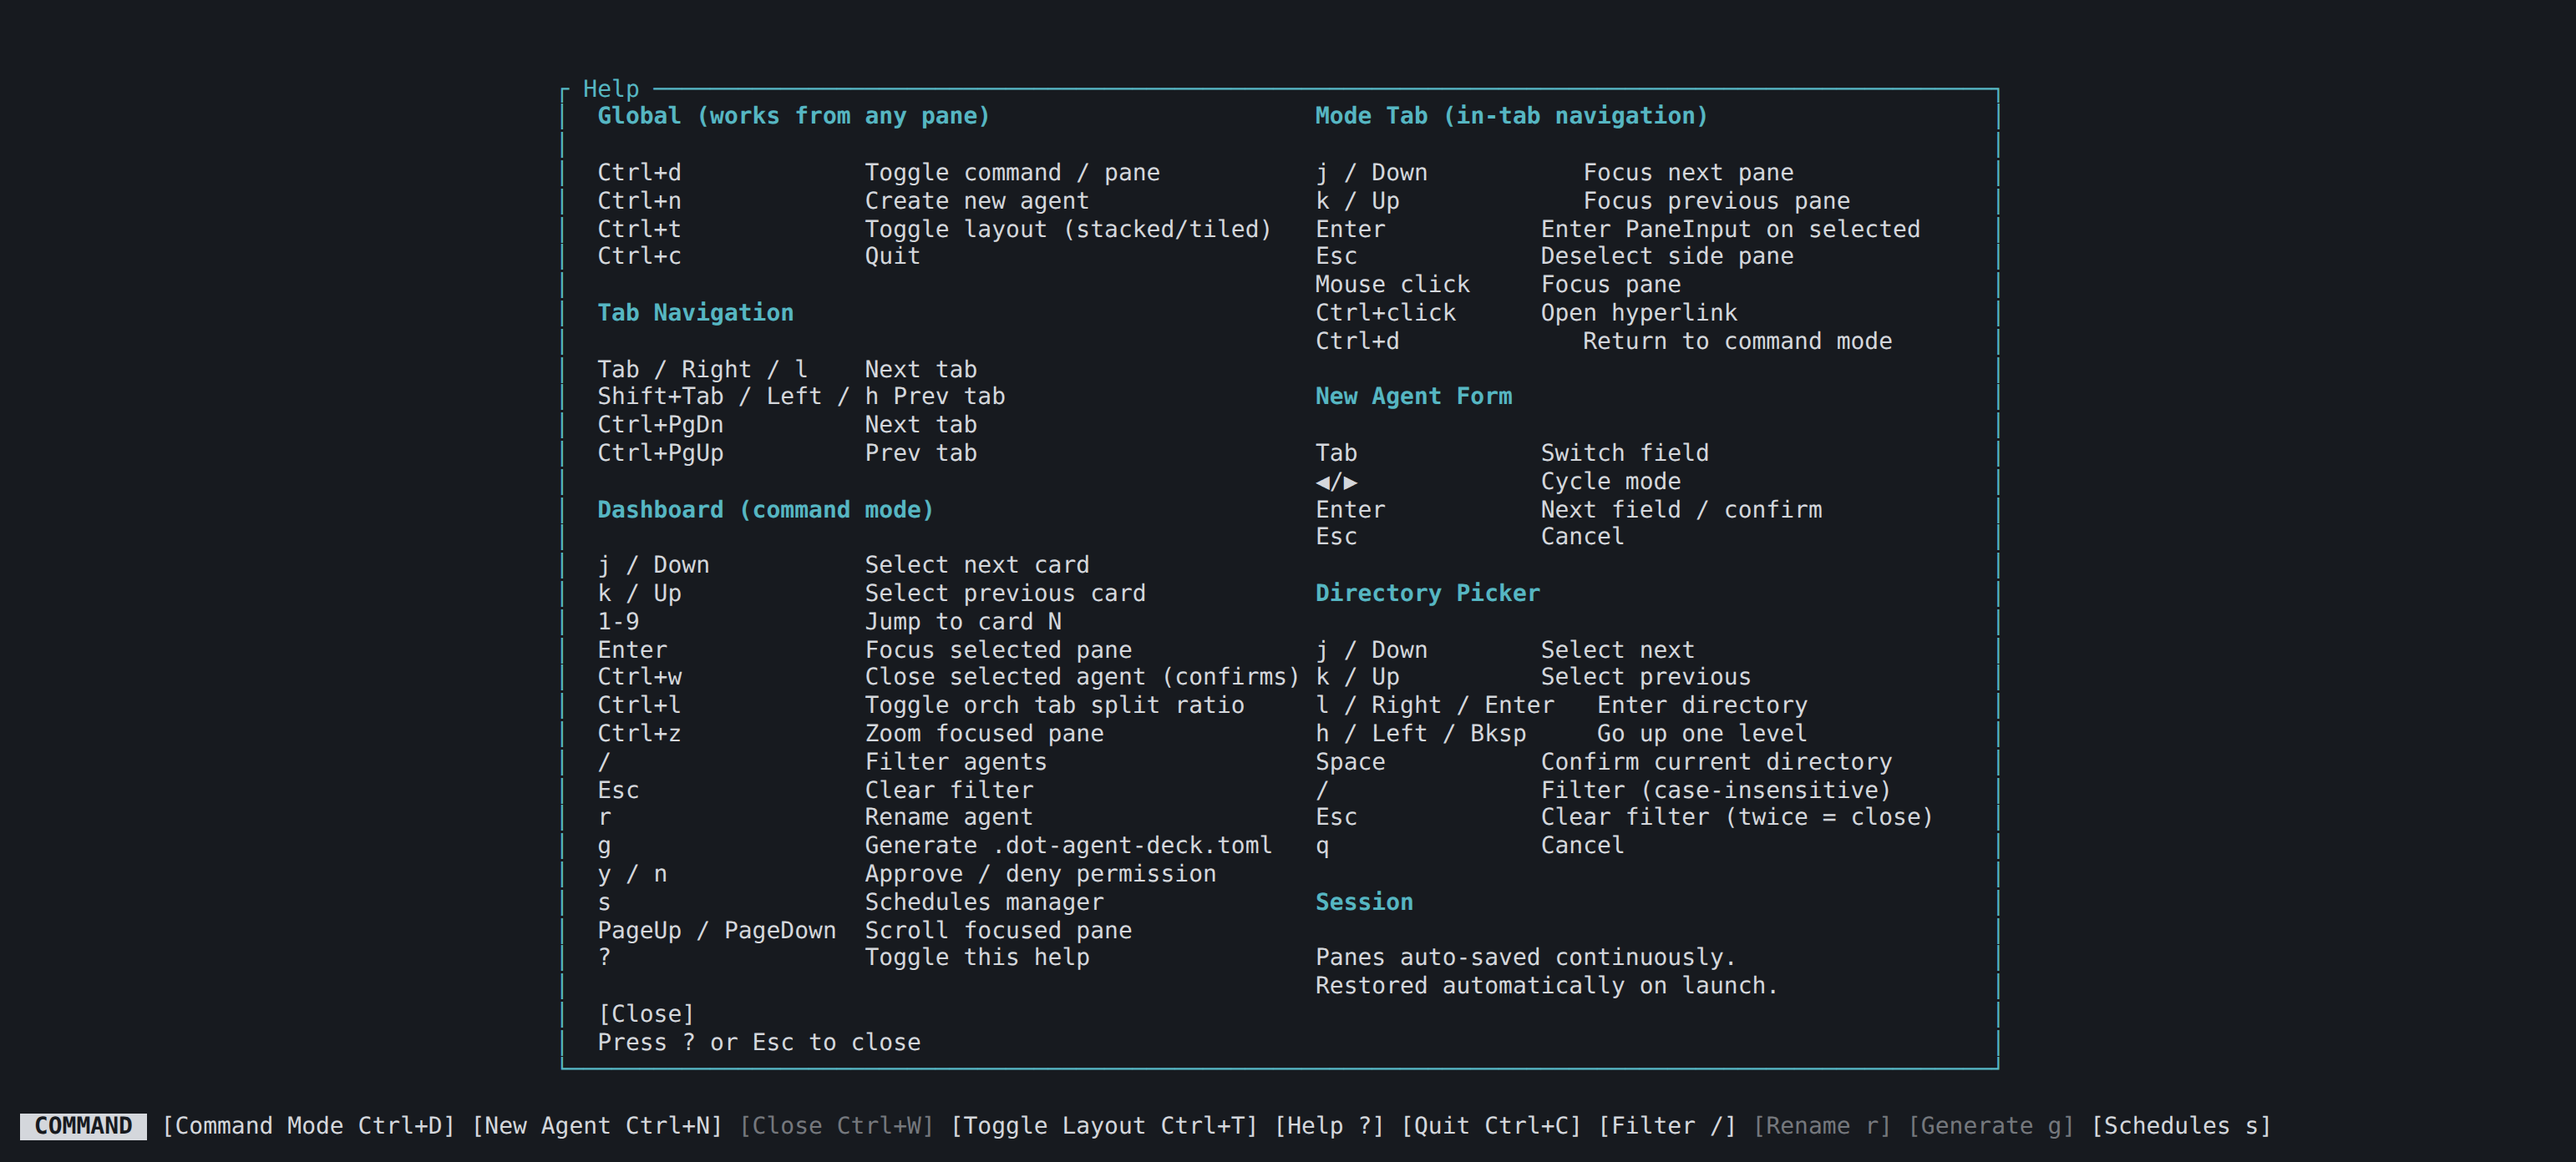
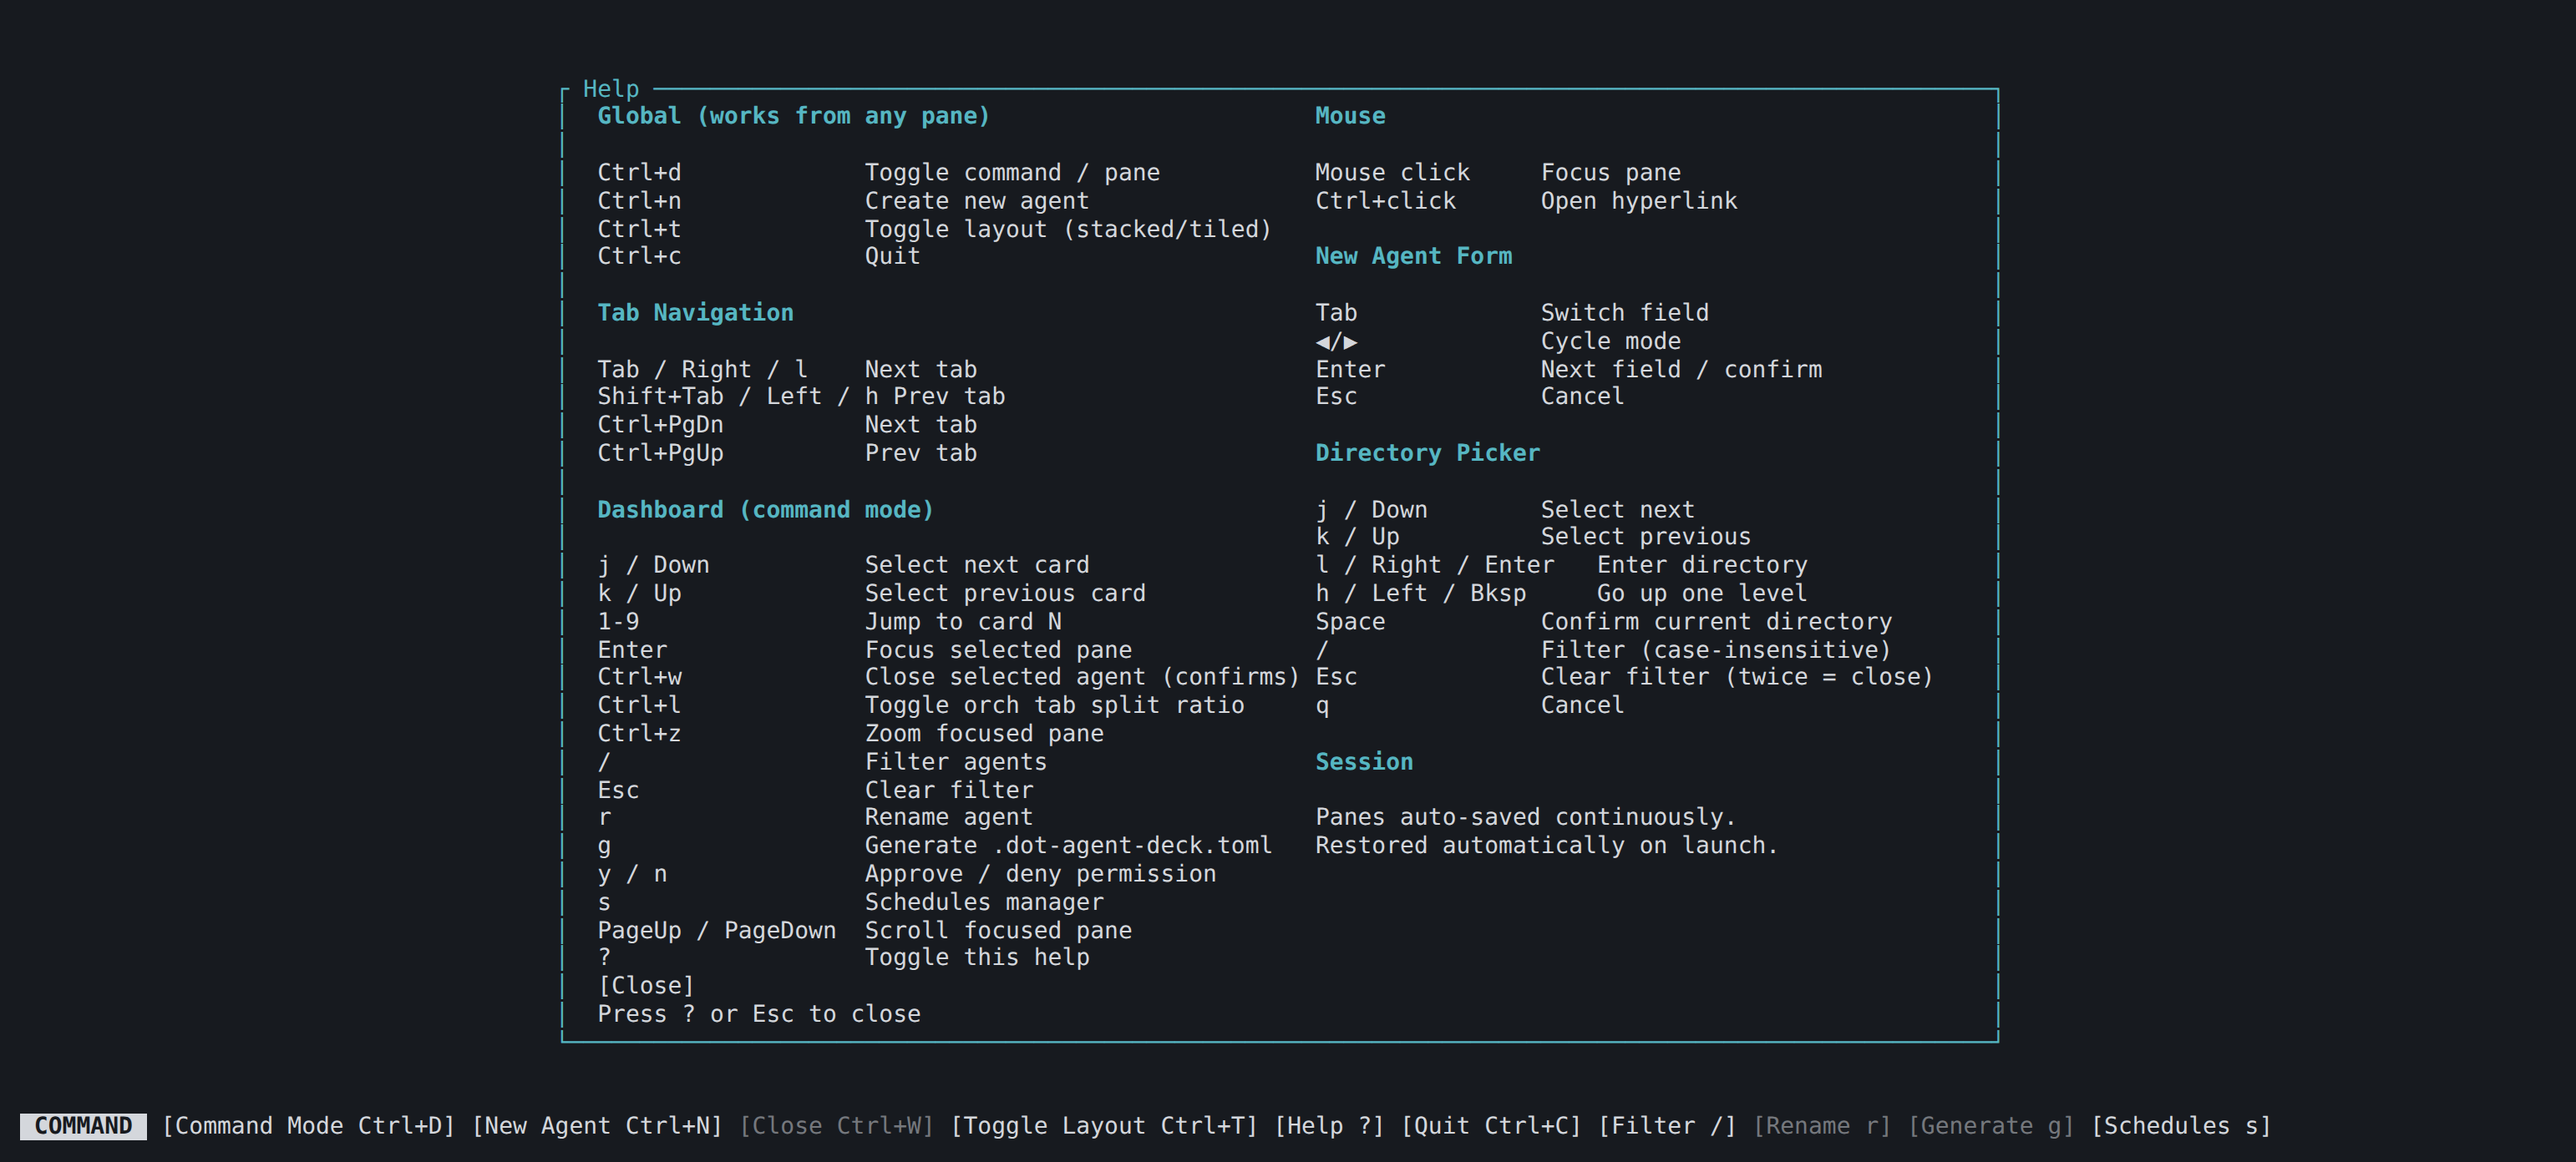
docs: stop describing workspace modes as a current feature (#1482) (#1484)
* docs: stop describing workspace modes as a current feature (#1482)

Workspace modes were removed in 0.44.0 (#1412), but the published pages
still described them as present:

- desktop/index.md no longer lists them as TUI-only.
- desktop/new-agent.md says New agent offers the same starts as Ctrl+n.
- desktop/dashboard.md describes the MODE TAB group as appearing only
  while an agent started in a workspace mode by a pre-0.44.0 release is
  still running.
- installation.md's daemon status example uses an orchestration role;
  the ROLE column keeps mode:<name> for that leftover case.
- troubleshooting.md's Codex prompt note names the dispatcher and
  schedule-authoring first prompts instead of a mode's seed.
- help-tui.png is regenerated with `cargo docs-screenshots --scenario
  help --client tui`, so it no longer shows a Mode Tab section, and its
  alt text in keyboard-shortcuts.md lists the sections it does show.

Also drops workspace modes from the TUI-only example in the
docs-screenshots-review skill.

* docs(desktop): keep workspace-mode agents out of the NO TAB definition (#1482)

---------

Changed region(s): [[0.4981, 0.0927, 0.7471, 0.7414], [0.2179, 0.8341, 0.7782, 0.9267], [0.4981, 0.7723, 0.6848, 0.8649]]

diff --git a/.claude/skills/docs-screenshots-review/SKILL.md b/.claude/skills/docs-screenshots-review/SKILL.md
@@ -12,7 +12,7 @@ The user docs under `docs/` (not `docs/develop/`, which is never published) and 
 
 **The rule: every page shows and explains both the TUI and the desktop app, unless the feature works in only one of them.** Most features live in the daemon, so both clients have them; they just present them differently (a card or a row, a tab or a group, `Ctrl+n` or **New agent**). Name both where they differ, in the prose and in the screenshots. Do not write a page, a paragraph or a caption that describes only the TUI and leaves the desktop app implied, or the other way round.
 
-A feature one client lacks is the exception, and it is stated, not left implicit: say which client has it (the Schedules manager and workspace modes are TUI-only; voice control and several daemons on one dashboard are desktop-only), so a reader of the other client knows why they do not see it. Check "both have it" against the code before writing it (CLAUDE.md rule 17) — the desktop feature inventory in `prds/done/1321-user-docs-both-clients.md` is a starting point, not the source of truth.
+A feature one client lacks is the exception, and it is stated, not left implicit: say which client has it (the Schedules manager is TUI-only; voice control and several daemons on one dashboard are desktop-only), so a reader of the other client knows why they do not see it. Check "both have it" against the code before writing it (CLAUDE.md rule 17) — the desktop feature inventory in `prds/done/1321-user-docs-both-clients.md` is a starting point, not the source of truth.
 
 How to show both depends on the page. In the docs, a screenshot of a feature both clients have is one image per client, under a **`**TUI:**` and a `**Desktop:**` label** (section 2). On the home page, the reader should not have to choose a client, so both clients' images sit **side by side**, each labelled (the story rows in `site/landing/index.html` are the pattern).
 

diff --git a/docs/installation.md b/docs/installation.md
@@ -326,7 +326,7 @@ dot-agent-deck daemon status
 
 ```text
 PANE	AGENT	ROLE	STATUS	TOOL	LABEL	CWD
-1	1	mode:review	Thinking	-	api	/home/you/src/api
+1	1	lead (orchestrator)	Thinking	-	api	/home/you/src/api
 2	2	-	Working	Bash	api	/home/you/src/api
 ```
 
@@ -336,7 +336,7 @@ The columns are tab-separated (`column -t -s $'\t'` aligns them). `-` means no v
 |---|---|
 | `PANE` | Pane id; a managed agent sees it as `DOT_AGENT_DECK_PANE_ID`. |
 | `AGENT` | The daemon's id for the agent. |
-| `ROLE` | `mode:<name>` for a mode pane, the role name for an [orchestration](orchestration.md) pane (with `(orchestrator)` on the start role), `-` otherwise. |
+| `ROLE` | The role name for an [orchestration](orchestration.md) pane (with `(orchestrator)` on the start role), `mode:<name>` for an agent still running from a workspace mode started by a release before 0.44.0, `-` otherwise. |
 | `STATUS` | `Thinking`, `Working`, `Compacting`, `WaitingForInput`, `Idle`, `Error` or `Blocked`. See [Session statuses](session-management.md#session-statuses). |
 | `TOOL` | The name of the tool running now, without its arguments. |
 | `LABEL` | The pane's display name. |
@@ -356,7 +356,7 @@ dot-agent-deck daemon status --json
 {
   "schema_version": 2,
   "agents": [
-    { "agent_id": "1", "pane_id": "1", "label": "api", "cwd": "/home/you/src/api", "role": "mode:review", "status": "Thinking" },
+    { "agent_id": "1", "pane_id": "1", "label": "api", "cwd": "/home/you/src/api", "role": "lead (orchestrator)", "status": "Thinking" },
     { "agent_id": "2", "pane_id": "2", "label": "api", "cwd": "/home/you/src/api", "status": "Working", "active_tool": { "name": "Bash" } }
   ]
 }

diff --git a/docs/desktop/dashboard.md b/docs/desktop/dashboard.md
@@ -14,9 +14,9 @@ The **Agent dashboard** is the desktop app's main screen and the one it opens on
 
 Each daemon being shown gets its own section, headed with its name (**Local daemon** for this machine, the ssh user and host for a remote one) and its own **New agent** button, which creates the agent on that daemon. Inside a section, agents are grouped:
 
-- **Standalone agents** (kicker **NO TAB**): agents that belong to no orchestration and no mode tab.
+- **Standalone agents** (kicker **NO TAB**): agents that belong to no orchestration and no workspace mode.
 - One group per orchestration (kicker **ORCHESTRATION**), named after the run. Its rows are numbered in role order, and the start role, the one you message, carries an **ORCHESTRATOR** badge.
-- One group per workspace-mode tab started from the TUI (kicker **MODE TAB**).
+- One group per workspace mode (kicker **MODE TAB**), named after the mode. You see one only while an agent started in a workspace mode by a release before 0.44.0 is still running; workspace modes were removed in 0.44.0, so neither client starts one.
 
 Each group header shows how many agents it holds, how many are in each status, and the working directory most of its agents share. A row shows its own directory only when it differs from that.
 

diff --git a/docs/troubleshooting.md b/docs/troubleshooting.md
@@ -199,7 +199,7 @@ If a Codex card shows only coarse status with no tool or prompt detail, check in
 
 Trust is tied to each hook's exact content. If a hook definition changes after trust was recorded, Codex refuses to run it and the card falls back to coarse status; running the install again records trust for the new content.
 
-While Codex's hooks are not trusted, or if you turn off the deck's `UserPromptSubmit` hook in Codex's `/hooks` list, Codex cannot confirm to the deck that it received an automatic prompt (a mode's seed, an orchestration role's first task, a dispatched unit's task). The deck then types such a prompt once and does not retype it, so the prompt can go missing. Fixing trust fixes that as well.
+While Codex's hooks are not trusted, or if you turn off the deck's `UserPromptSubmit` hook in Codex's `/hooks` list, Codex cannot confirm to the deck that it received an automatic prompt (the first prompt of a dispatcher or a schedule-authoring agent, an orchestration role's first task, a dispatched unit's task). The deck then types such a prompt once and does not retype it, so the prompt can go missing. Fixing trust fixes that as well.
 
 ### Codex as a role or worker: allow sandbox network access
 

diff --git a/changelog.d/1482.doc.md b/changelog.d/1482.doc.md
@@ -1,0 +1,5 @@
+## Docs no longer describe workspace modes as a current feature
+
+The desktop app pages no longer list workspace modes as something the TUI has and the app lacks, and [New Agent](https://agent-deck.devopstoolkit.ai/docs/desktop/new-agent.md) now says it offers the same kinds of start as the TUI's `Ctrl+n` form. Workspace modes were removed from both clients in 0.44.0. [Dashboard](https://agent-deck.devopstoolkit.ai/docs/desktop/dashboard.md) now explains that a **MODE TAB** group appears only while an agent started in a workspace mode by a release before 0.44.0 is still running.
+
+The help-overlay screenshot on [Keyboard Shortcuts](https://agent-deck.devopstoolkit.ai/docs/keyboard-shortcuts.md) has been retaken from the current TUI, so it no longer shows a Mode Tab section. `daemon status` on [Installation](https://agent-deck.devopstoolkit.ai/docs/installation.md) and the Codex prompt note on [Troubleshooting](https://agent-deck.devopstoolkit.ai/docs/troubleshooting.md) no longer use workspace modes as their examples.

diff --git a/docs/desktop/index.md b/docs/desktop/index.md
@@ -36,7 +36,6 @@ The rail on the left has two entries, **Dashboard** and **Settings**, and the **
 These are TUI-only:
 
 - The [Schedules manager](../scheduled-tasks.md). The desktop app can start a schedule-authoring agent from **New agent**, but cannot list, edit or run schedules. Use the TUI or the `dot-agent-deck schedule` CLI.
-- Workspace modes: the desktop's **New agent** offers no mode tab. Mode tabs started from the TUI still appear on the Dashboard as their own group.
 - Generating `.dot-agent-deck.toml` with `g`, filtering agents with `/`, renaming an agent, and [customising keybindings](../keyboard-shortcuts.md).
 - Saving and restoring the workspace, and the quit dialog's **Detach** / **Stop**.
 - Installing the deck on a remote machine and starting a daemon there (`dot-agent-deck remote add`, `dot-agent-deck connect`). The desktop app connects to a remote daemon that is already running; see [Daemons](daemons.md).

diff --git a/docs/desktop/new-agent.md b/docs/desktop/new-agent.md
@@ -1,6 +1,6 @@
 # New Agent
 
-**New agent** starts something on a daemon: a single agent, an orchestration from a project's `.dot-agent-deck.toml`, a dispatcher, or an agent that helps you write a schedule. It is the desktop counterpart of the TUI's `Ctrl+n` form and offers the same kinds of start except workspace modes.
+**New agent** starts something on a daemon: a single agent, an orchestration from a project's `.dot-agent-deck.toml`, a dispatcher, or an agent that helps you write a schedule. It is the desktop counterpart of the TUI's `Ctrl+n` form and offers the same kinds of start.
 
 ![The New agent dialog over the Dashboard: the Local daemon chosen under Daemon, a directory chosen in the browser with Use this directory beside it, and the form below with Dir, the Mode chips (No mode selected), Name pre-filled from the directory, an empty Command, and Discard and Create agent](/img/new-agent-desktop.png)
 

diff --git a/docs/keyboard-shortcuts.md b/docs/keyboard-shortcuts.md
@@ -4,7 +4,7 @@ Everything on this page is the TUI's, except [Editing an agent's prompt](#editin
 
 Press `?` in command mode to see the shortcuts in the TUI. The overlay and the bottom button bar are generated from your active [keybindings](#customizing-keybindings), so they show your real keys.
 
-![The TUI's help overlay, opened with ?, listing the shortcuts by section: Global, Tab Navigation, Dashboard (command mode), Mode Tab, New Agent Form, Directory Picker and Session](/img/help-tui.png)
+![The TUI's help overlay, opened with ?, listing the shortcuts by section: Global (works from any pane), Tab Navigation and Dashboard (command mode) on the left; Mouse, New Agent Form, Directory Picker and Session on the right](/img/help-tui.png)
 
 ## Modes
 
